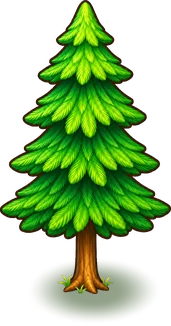
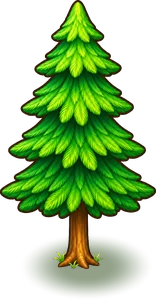
Ель чуть ниже: 110 (молодая 66), всё ещё выше дуба

Changed region(s): [[0.0, 0.0298, 1.0, 0.9238]]

diff --git a/tools/slice_art.py b/tools/slice_art.py
@@ -61,10 +61,10 @@ CROP_STAGE_W = {'cabbage': [17.6, 29.65, 47.13, 56.7]}
 NOBASE = {
     # деревья — по высоте (от верха до опоры), чтобы рост шёл по породам: ель > дуб > липа > берёза >
     # клён > вишня > яблоня > сакура. Взрослое с плодами и без — одной высоты, молодое — 0.6 взрослого.
-    'tree_pine': ('h', 120), 'tree_oak': ('h', 106), 'tree_linden': ('h', 100), 'tree_birch': ('h', 96),
+    'tree_pine': ('h', 110), 'tree_oak': ('h', 106), 'tree_linden': ('h', 100), 'tree_birch': ('h', 96),
     'tree_maple': ('h', 90), 'tree_cherry': ('h', 86), 'tree_cherry_bare': ('h', 86),
     'tree_apple': ('h', 82), 'tree_apple_bare': ('h', 82), 'tree_sakura': ('h', 80), 'tree_sakura_bare': ('h', 80),
-    'tree_pine_young': ('h', 72), 'tree_oak_young': ('h', 64), 'tree_linden_young': ('h', 60),
+    'tree_pine_young': ('h', 66), 'tree_oak_young': ('h', 64), 'tree_linden_young': ('h', 60),
     'tree_birch_young': ('h', 58), 'tree_maple_young': ('h', 54), 'tree_cherry_young': ('h', 52),
     'tree_apple_young': ('h', 49), 'tree_sakura_young': ('h', 48),
     # кусты: с плодами, без, молодые
